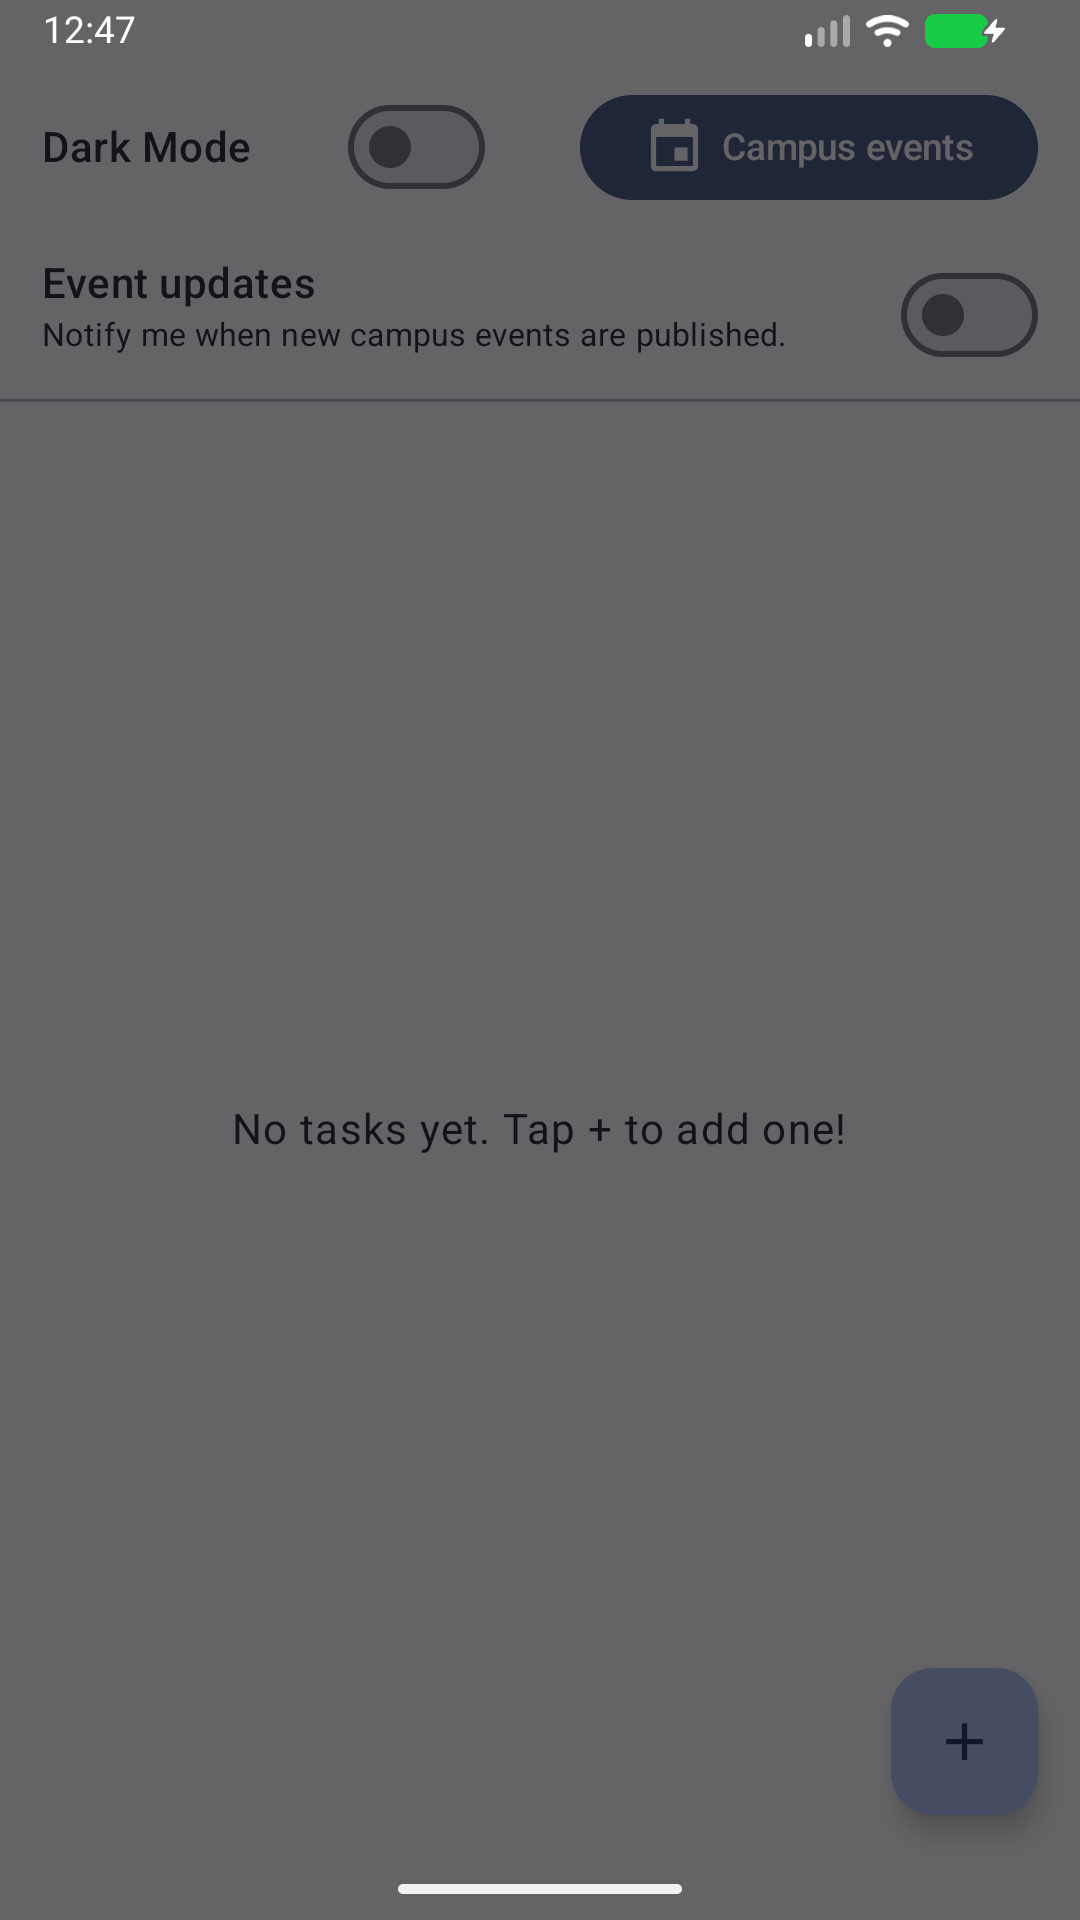
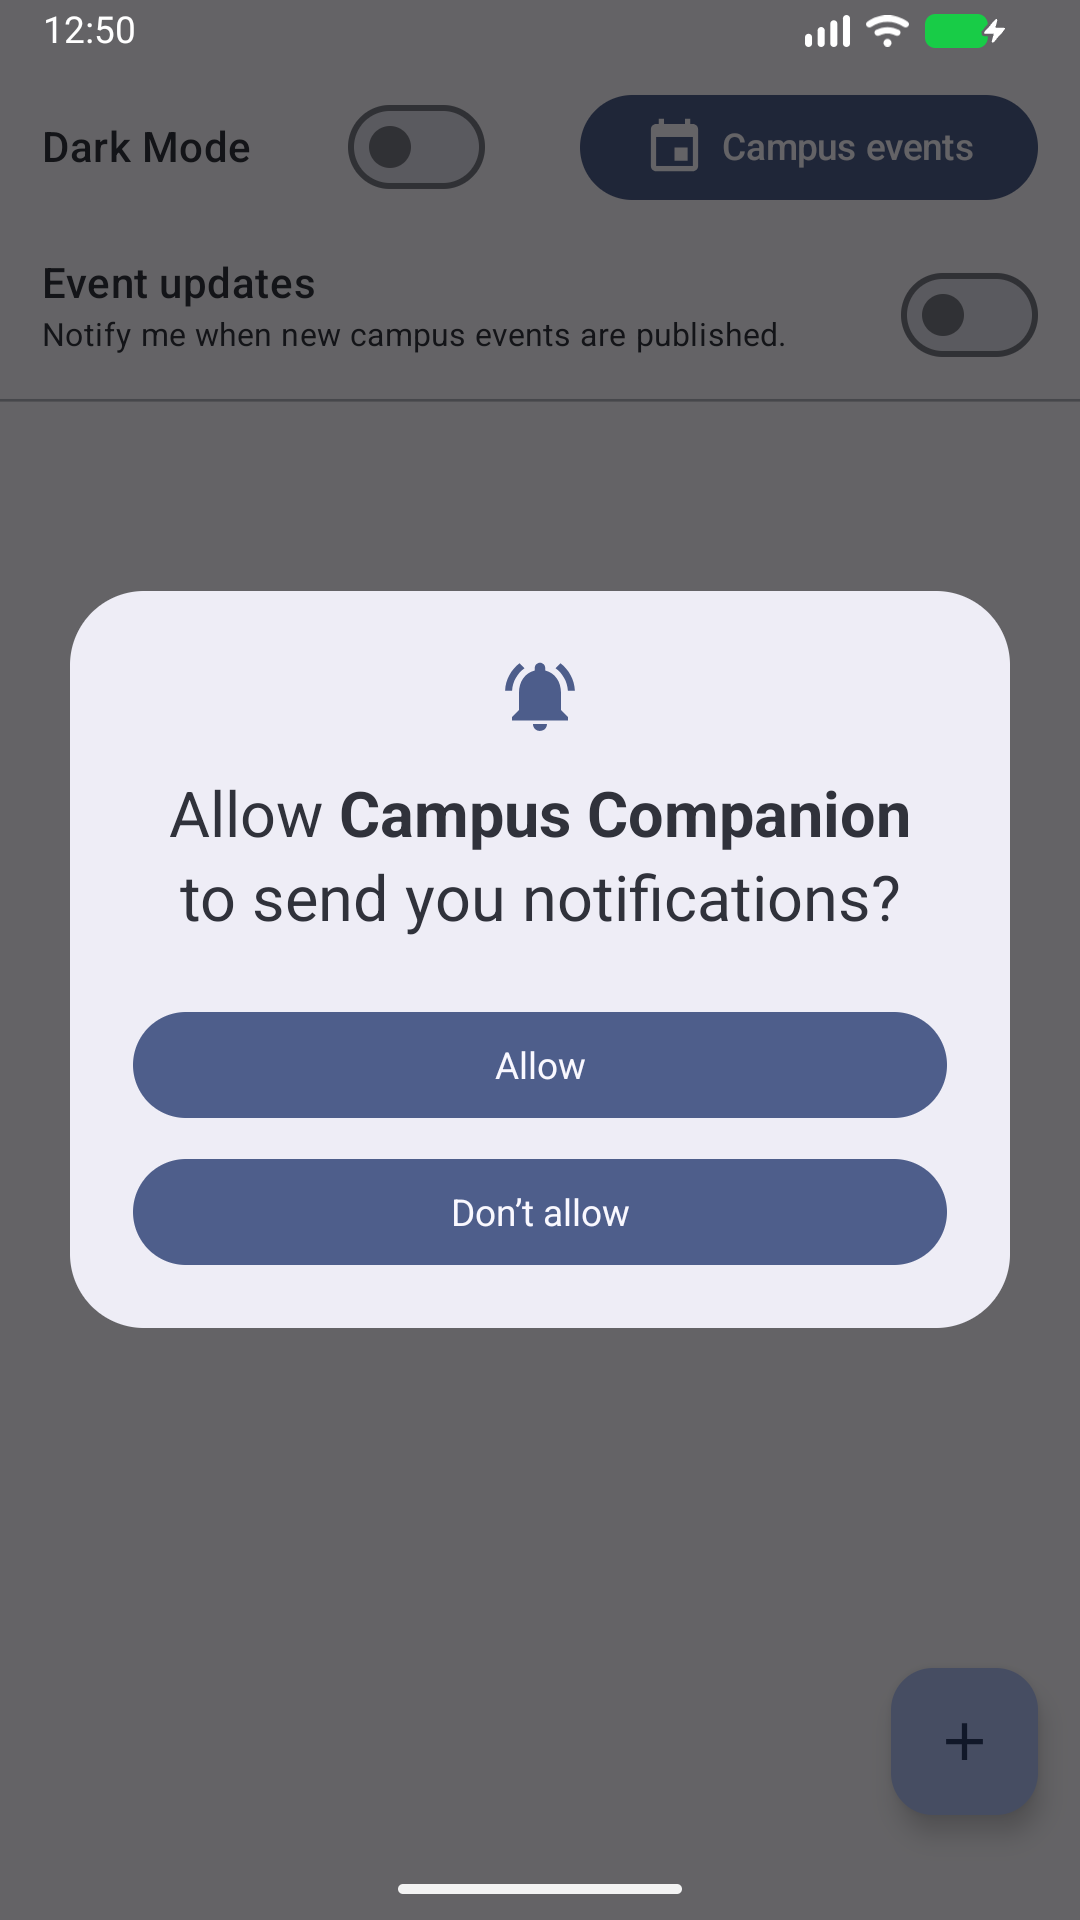
Capture visible permission dialog after its animation

diff --git a/app/src/androidTest/java/com/inci/campuscompanion/NotificationWorkshopTest.kt b/app/src/androidTest/java/com/inci/campuscompanion/NotificationWorkshopTest.kt
@@ -52,6 +52,8 @@ class NotificationWorkshopTest {
         compose.onNodeWithContentDescription("Enable event updates").performClick()
         val deny = device.wait(Until.findObject(By.res("com.android.permissioncontroller", "permission_deny_button")), 10000)
         assertNotNull("Contextual Android permission dialog must appear", deny)
+        device.waitForIdle()
+        android.os.SystemClock.sleep(500) // Let the system dialog enter animation finish before evidence capture.
         device.takeScreenshot(File(context.getExternalFilesDir(null), "workshop-evidence/02-permission-dialog.png"))
         deny.click()
         compose.waitUntil(10000) { compose.onAllNodesWithText("Open notification settings").fetchSemanticsNodes().isNotEmpty() }

diff --git a/docs/workshop-evidence/README.md b/docs/workshop-evidence/README.md
@@ -10,3 +10,5 @@ Captured from the clean API 37 emulator on 18 November 2026, not mockups.
 - 06: Events opened by tapping that notification; cached data is visible while another refresh runs.
 
 The test log records all 8 tests passing. Screenshots alone do not prove absence of notifications; the instrumentation assertions cover those cases. New/unchanged-event policy uses controlled fixtures; the live worker test uses the supplied unchanged endpoint. See WORKSHOPS.md for limits and attribution.
+
+Image 02 was recaptured in a subsequent passing run of the same notification test after waiting for the system dialog’s animation to finish; the initial capture was too early. `notification-evidence-retest.txt` records that additional passing test. The app implementation was unchanged.
